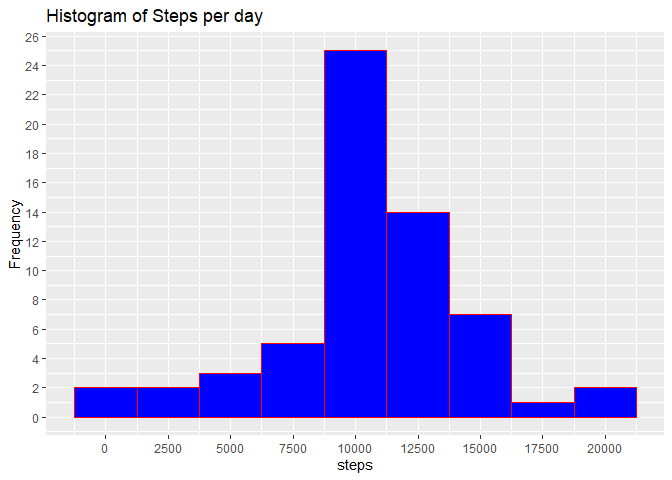
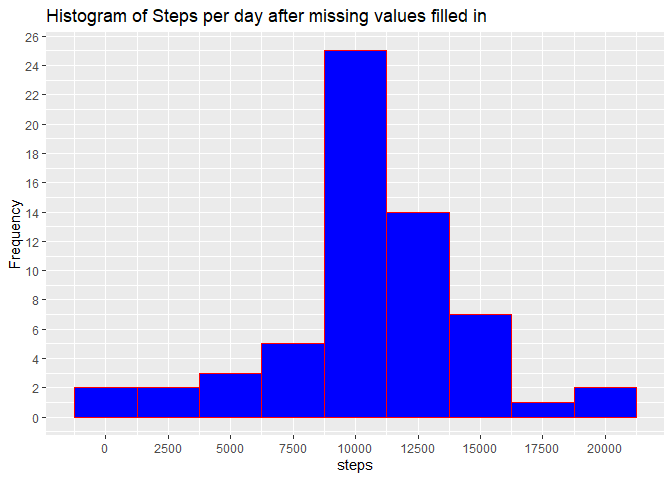
Graph Title amended

Changed region(s): [[0.4062, 0.0, 0.7188, 0.0625]]

diff --git a/PA1_template.html b/PA1_template.html
@@ -375,16 +375,20 @@ summary {
 install.packages(&quot;plyr&quot;,repos = &quot;http://cran.us.r-project.org&quot;)</code></pre>
 <pre><code>## Installing package into &#39;C:/Users/vsahasrabuddhe/Documents/R/win-library/3.6&#39;
 ## (as &#39;lib&#39; is unspecified)</code></pre>
-<pre><code>## package &#39;plyr&#39; successfully unpacked and MD5 sums checked
-## Warning in install.packages :
-##   cannot remove prior installation of package &#39;plyr&#39;
-## Warning in install.packages :
-##   problem copying C:\Users\vsahasrabuddhe\Documents\R\win-library\3.6\00LOCK\plyr\libs\i386\plyr.dll to C:\Users\vsahasrabuddhe\Documents\R\win-library\3.6\plyr\libs\i386\plyr.dll: Permission denied
-## Warning in install.packages :
-##   restored &#39;plyr&#39;
-## 
+<pre><code>## package &#39;plyr&#39; successfully unpacked and MD5 sums checked</code></pre>
+<pre><code>## Warning: cannot remove prior installation of package &#39;plyr&#39;</code></pre>
+<pre><code>## Warning in file.copy(savedcopy, lib, recursive = TRUE): problem copying C:
+## \Users\vsahasrabuddhe\Documents\R\win-library\3.6\00LOCK\plyr\libs\i386\plyr.dll
+## to C:\Users\vsahasrabuddhe\Documents\R\win-library\3.6\plyr\libs\i386\plyr.dll:
+## Permission denied</code></pre>
+<pre><code>## Warning in file.copy(savedcopy, lib, recursive = TRUE): problem copying C:
+## \Users\vsahasrabuddhe\Documents\R\win-library\3.6\00LOCK\plyr\libs\x64\plyr.dll
+## to C:\Users\vsahasrabuddhe\Documents\R\win-library\3.6\plyr\libs\x64\plyr.dll:
+## Permission denied</code></pre>
+<pre><code>## Warning: restored &#39;plyr&#39;</code></pre>
+<pre><code>## 
 ## The downloaded binary packages are in
-##  C:\Users\vsahasrabuddhe\AppData\Local\Temp\Rtmpa0lNry\downloaded_packages</code></pre>
+##  C:\Users\vsahasrabuddhe\AppData\Local\Temp\Rtmp4KcaCL\downloaded_packages</code></pre>
 <pre class="r"><code>library(&quot;plyr&quot;)
 
 library(&quot;dplyr&quot;)</code></pre>
@@ -392,7 +396,8 @@ library(&quot;dplyr&quot;)</code></pre>
 ## Attaching package: &#39;dplyr&#39;</code></pre>
 <pre><code>## The following objects are masked from &#39;package:plyr&#39;:
 ## 
-##     arrange, count, desc, failwith, id, mutate, rename, summarise, summarize</code></pre>
+##     arrange, count, desc, failwith, id, mutate, rename, summarise,
+##     summarize</code></pre>
 <pre><code>## The following objects are masked from &#39;package:stats&#39;:
 ## 
 ##     filter, lag</code></pre>
@@ -405,7 +410,7 @@ library(&quot;dplyr&quot;)</code></pre>
 <pre><code>## package &#39;ggplot2&#39; successfully unpacked and MD5 sums checked
 ## 
 ## The downloaded binary packages are in
-##  C:\Users\vsahasrabuddhe\AppData\Local\Temp\Rtmpa0lNry\downloaded_packages</code></pre>
+##  C:\Users\vsahasrabuddhe\AppData\Local\Temp\Rtmp4KcaCL\downloaded_packages</code></pre>
 <pre class="r"><code>library(&quot;ggplot2&quot;)
 
 ## 1. Import Data and check first few rows
@@ -477,8 +482,8 @@ maxSteps</code></pre>
 
 colnames(StepPerDay_mvr) &lt;- c(&quot;date&quot;,&quot;tot_steps&quot;)
 
-ggplot(StepPerDay_mvr,aes(tot_steps))+geom_histogram(binwidth=2500,col=&quot;red&quot;,fill=&quot;blue&quot;)+scale_x_continuous(breaks=seq(0,25000,2500))+scale_y_continuous(breaks=seq(0,26,2))+ggtitle(&quot;Histogram of Steps per day&quot;)+ xlab(&quot;steps&quot;)+ylab(&quot;Frequency&quot;)</code></pre>
[1 lines of base64/hex data omitted]
+ggplot(StepPerDay_mvr,aes(tot_steps))+geom_histogram(binwidth=2500,col=&quot;red&quot;,fill=&quot;blue&quot;)+scale_x_continuous(breaks=seq(0,25000,2500))+scale_y_continuous(breaks=seq(0,26,2))+ggtitle(&quot;Histogram of Steps per day after missing values filled in&quot;)+ xlab(&quot;steps&quot;)+ylab(&quot;Frequency&quot;)</code></pre>
[1 lines of base64/hex data omitted]
 <pre class="r"><code>mean(StepPerDay_mvr$tot_steps)</code></pre>
 <pre><code>## [1] 10766.19</code></pre>
 <pre class="r"><code>median(StepPerDay_mvr$tot_step)</code></pre>

diff --git a/PA1_template.md b/PA1_template.md
@@ -29,15 +29,34 @@ install.packages("plyr",repos = "http://cran.us.r-project.org")
 
 ```
 ## package 'plyr' successfully unpacked and MD5 sums checked
-## Warning in install.packages :
-##   cannot remove prior installation of package 'plyr'
-## Warning in install.packages :
-##   problem copying C:\Users\vsahasrabuddhe\Documents\R\win-library\3.6\00LOCK\plyr\libs\i386\plyr.dll to C:\Users\vsahasrabuddhe\Documents\R\win-library\3.6\plyr\libs\i386\plyr.dll: Permission denied
-## Warning in install.packages :
-##   restored 'plyr'
+```
+
+```
+## Warning: cannot remove prior installation of package 'plyr'
+```
+
+```
+## Warning in file.copy(savedcopy, lib, recursive = TRUE): problem copying C:
+## \Users\vsahasrabuddhe\Documents\R\win-library\3.6\00LOCK\plyr\libs\i386\plyr.dll
+## to C:\Users\vsahasrabuddhe\Documents\R\win-library\3.6\plyr\libs\i386\plyr.dll:
+## Permission denied
+```
+
+```
+## Warning in file.copy(savedcopy, lib, recursive = TRUE): problem copying C:
+## \Users\vsahasrabuddhe\Documents\R\win-library\3.6\00LOCK\plyr\libs\x64\plyr.dll
+## to C:\Users\vsahasrabuddhe\Documents\R\win-library\3.6\plyr\libs\x64\plyr.dll:
+## Permission denied
+```
+
+```
+## Warning: restored 'plyr'
+```
+
+```
 ## 
 ## The downloaded binary packages are in
-## 	C:\Users\vsahasrabuddhe\AppData\Local\Temp\Rtmpa0lNry\downloaded_packages
+## 	C:\Users\vsahasrabuddhe\AppData\Local\Temp\Rtmp4KcaCL\downloaded_packages
 ```
 
 ```r
@@ -54,7 +73,8 @@ library("dplyr")
 ```
 ## The following objects are masked from 'package:plyr':
 ## 
-##     arrange, count, desc, failwith, id, mutate, rename, summarise, summarize
+##     arrange, count, desc, failwith, id, mutate, rename, summarise,
+##     summarize
 ```
 
 ```
@@ -82,7 +102,7 @@ install.packages("ggplot2",repos = "http://cran.us.r-project.org")
 ## package 'ggplot2' successfully unpacked and MD5 sums checked
 ## 
 ## The downloaded binary packages are in
-## 	C:\Users\vsahasrabuddhe\AppData\Local\Temp\Rtmpa0lNry\downloaded_packages
+## 	C:\Users\vsahasrabuddhe\AppData\Local\Temp\Rtmp4KcaCL\downloaded_packages
 ```
 
 ```r
@@ -210,7 +230,7 @@ StepPerDay_mvr <- aggregate(data_mvr$steps,by=list(data_mvr$date),FUN=sum)
 
 colnames(StepPerDay_mvr) <- c("date","tot_steps")
 
-ggplot(StepPerDay_mvr,aes(tot_steps))+geom_histogram(binwidth=2500,col="red",fill="blue")+scale_x_continuous(breaks=seq(0,25000,2500))+scale_y_continuous(breaks=seq(0,26,2))+ggtitle("Histogram of Steps per day")+ xlab("steps")+ylab("Frequency")
+ggplot(StepPerDay_mvr,aes(tot_steps))+geom_histogram(binwidth=2500,col="red",fill="blue")+scale_x_continuous(breaks=seq(0,25000,2500))+scale_y_continuous(breaks=seq(0,26,2))+ggtitle("Histogram of Steps per day after missing values filled in")+ xlab("steps")+ylab("Frequency")
 ```
 
 ![](PA1_template_files/figure-html/unnamed-chunk-9-1.png)<!-- -->
